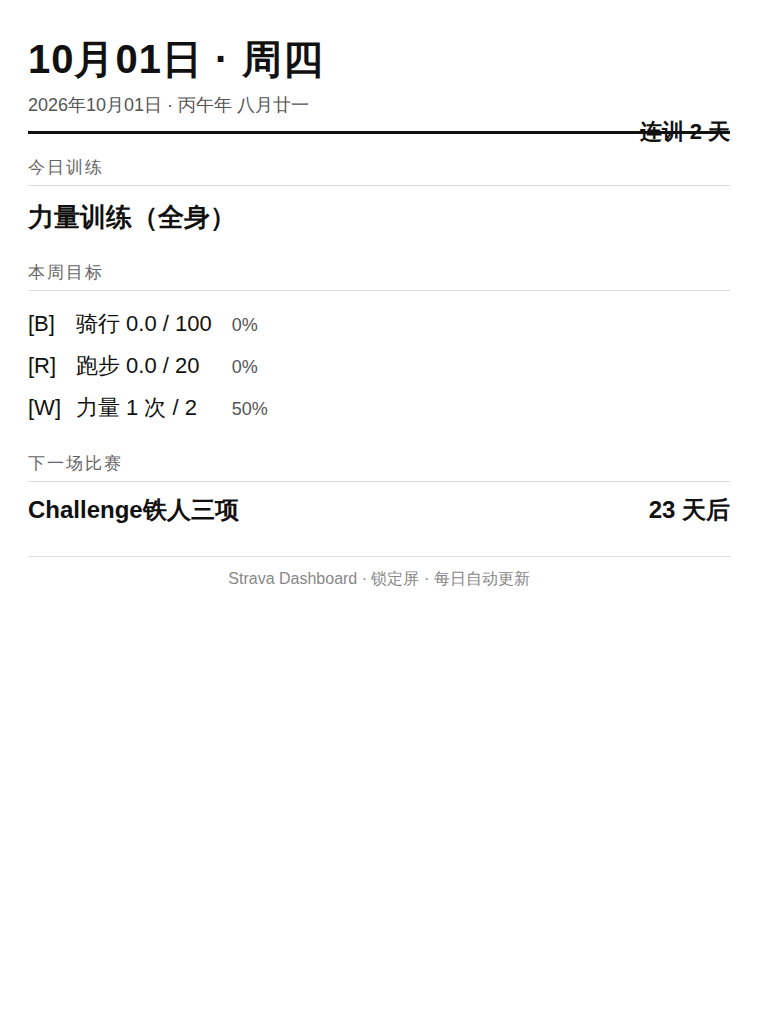
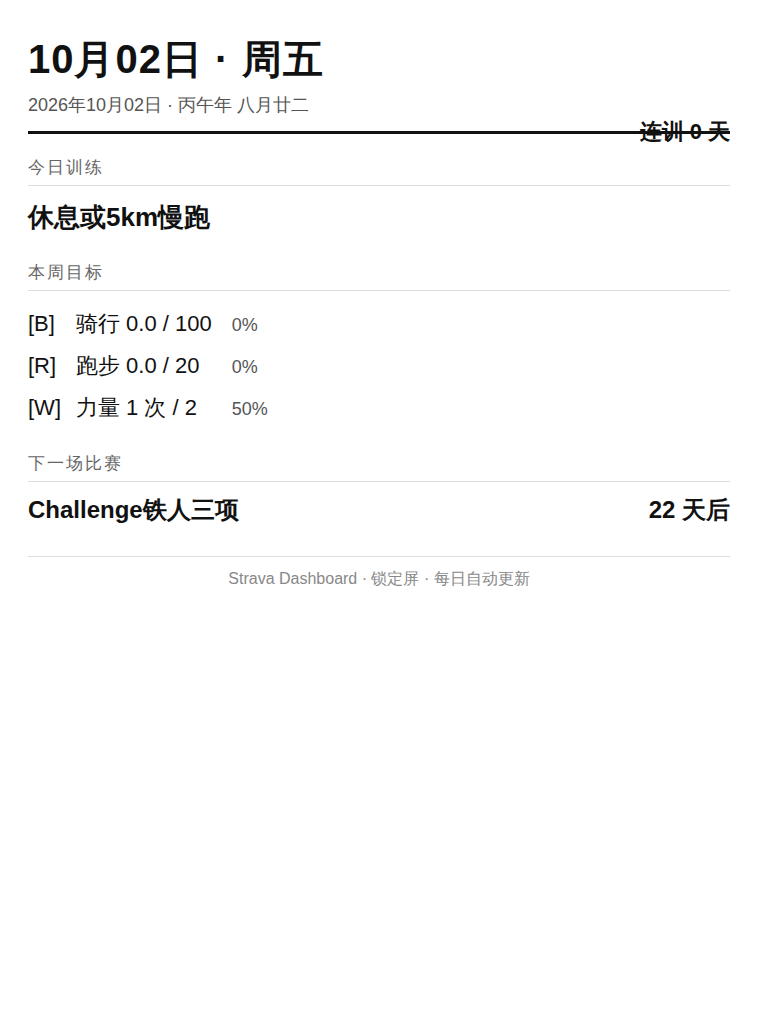
deploy: c8f4226ce821d98ac7ac5ce3594cb846bf59890a

Changed region(s): [[0.0303, 0.1875, 0.3034, 0.25], [0.3641, 0.0312, 0.4248, 0.0938], [0.1821, 0.0312, 0.2124, 0.0938]]

diff --git a/life.html b/life.html
@@ -89,7 +89,7 @@ html, body {
 <table class="header-table">
   <tr>
     <td class="header-left">生活</td>
-    <td class="header-right">2026.10.01</td>
+    <td class="header-right">2026.10.02</td>
   </tr>
 </table>
 
@@ -138,7 +138,7 @@ html, body {
   <table class="weather-table">
     <tr>
       <td class="weather-icon">~</td>
-      <td class="weather-temp">22°C</td>
+      <td class="weather-temp">23°C</td>
       <td class="weather-desc">阴</td>
     </tr>
   </table>
@@ -146,24 +146,17 @@ html, body {
   <table class="forecast-table">
     
     <tr>
-      <td class="forecast-day">周五</td>
-      <td class="forecast-icon">~</td>
-      <td>阴</td>
-      <td class="forecast-range">24/20°C</td>
-    </tr>
-    
-    <tr>
       <td class="forecast-day">周六</td>
       <td class="forecast-icon">.</td>
-      <td>毛雨</td>
-      <td class="forecast-range">26/20°C</td>
+      <td>大毛雨</td>
+      <td class="forecast-range">24/19°C</td>
     </tr>
     
     <tr>
       <td class="forecast-day">周日</td>
       <td class="forecast-icon">.</td>
-      <td>小阵雨</td>
-      <td class="forecast-range">24/20°C</td>
+      <td>大毛雨</td>
+      <td class="forecast-range">23/21°C</td>
     </tr>
     
     <tr>
@@ -184,20 +177,27 @@ html, body {
       <td class="forecast-day">周三</td>
       <td class="forecast-icon">*</td>
       <td>晴</td>
-      <td class="forecast-range">24/13°C</td>
+      <td class="forecast-range">24/12°C</td>
     </tr>
     
     <tr>
       <td class="forecast-day">周四</td>
-      <td class="forecast-icon">*</td>
-      <td>晴</td>
-      <td class="forecast-range">24/16°C</td>
+      <td class="forecast-icon">~</td>
+      <td>多云</td>
+      <td class="forecast-range">25/16°C</td>
+    </tr>
+    
+    <tr>
+      <td class="forecast-day">周五</td>
+      <td class="forecast-icon">~</td>
+      <td>阴</td>
+      <td class="forecast-range">26/18°C</td>
     </tr>
     
   </table>
   
   
-  <div class="rain-alert">! 周六/周日 有雨，注意带伞</div>
+  <div class="rain-alert">! 周日 有雨，注意带伞</div>
   
 </div>
 
@@ -207,10 +207,10 @@ html, body {
   <p class="section-title">📅 今日</p>
   <table class="data-table">
     <tr>
-      <td>2026年10月1日 星期三</td>
+      <td>2026年10月2日 星期四</td>
     </tr>
     <tr>
-      <td>农历丙午年 八月廿一</td>
+      <td>农历丙午年 八月廿二</td>
     </tr>
   </table>
 </div>
@@ -293,10 +293,6 @@ html, body {
     
     
     
-    <tr>
-      <td colspan="2" class="todo-summary">🔥 连续运动 2 天</td>
-    </tr>
-    
   </table>
 </div>
 
@@ -311,7 +307,7 @@ html, body {
       <td class="event-bullet">🎈</td>
       <td class="event-name">老婆生日</td>
       
-      <td class="event-days">364天后</td>
+      <td class="event-days">363天后</td>
       
     </tr>
     
@@ -323,9 +319,9 @@ html, body {
 
 <div class="box">
   <p class="section-title">💬 一言</p>
-  <p class="quote-text">出师未捷身先死，长使英雄泪满襟。</p>
+  <p class="quote-text">徐行古道触婆娑，恰逢妙处难言表。</p>
   
-  <p class="quote-from">—— 蜀相</p>
+  <p class="quote-from">—— 踏莎行·上谷郡</p>
   
 </div>
 

diff --git a/screensaver.html b/screensaver.html
@@ -3,7 +3,7 @@
 <head>
 <meta charset="utf-8">
 <meta name="viewport" content="width=device-width, initial-scale=1">
-<title>训练屏保 · 10.01</title>
+<title>训练屏保 · 10.02</title>
 <style>
   body {
     margin: 0; padding: 32px 28px;
@@ -46,14 +46,14 @@
 </head>
 <body>
   <div class="header">
-    <div class="date">10月01日 · 周四</div>
-    <div class="sub">2026年10月01日 · 丙午年 八月廿一</div>
-    <div class="streak">连训 2 天</div>
+    <div class="date">10月02日 · 周五</div>
+    <div class="sub">2026年10月02日 · 丙午年 八月廿二</div>
+    <div class="streak">连训 0 天</div>
   </div>
 
   <div class="block">
     <div class="block-title">今日训练</div>
-    <div class="today">力量训练（全身）</div>
+    <div class="today">休息或5km慢跑</div>
   </div>
 
   <div class="block">
@@ -63,7 +63,7 @@
 
   <div class="block">
     <div class="block-title">下一场比赛</div>
-    <div class="race"><span class="race-name">Challenge铁人三项</span><span class="race-days">23 天后</span></div>
+    <div class="race"><span class="race-name">Challenge铁人三项</span><span class="race-days">22 天后</span></div>
   </div>
 
   <div class="footer">Strava Dashboard · 锁定屏 · 每日自动更新</div>

diff --git a/index.html b/index.html
@@ -74,7 +74,7 @@ html, body {
 <table class="header-table">
   <tr>
     <td class="header-left">Eric Lin · 运动</td>
-    <td class="header-right">2026.10.01  · 🔥2d</td>
+    <td class="header-right">2026.10.02</td>
   </tr>
 </table>
 
@@ -225,17 +225,10 @@ html, body {
 <div class="ai-plan">
   <div class="ai-plan-title">AI 训练建议</div>
   
-  <div class="ai-today">今日: 间歇跑 6×800m @4:30/km</div>
+  <div class="ai-today">今日: 力量训练（上肢+核心）</div>
   
   
   <table class="ai-weekly">
-    
-    <tr>
-      <td class="day">周四</td>
-      
-      <td>间歇跑 6×800m @4:30/km</td>
-      
-    </tr>
     
     <tr>
       <td class="day">周五</td>
@@ -279,6 +272,13 @@ html, body {
       
     </tr>
     
+    <tr>
+      <td class="day">周四</td>
+      
+      <td>间歇跑 6×800m @4:30/km</td>
+      
+    </tr>
+    
   </table>
   
   
@@ -293,7 +293,7 @@ html, body {
   <p class="section-title">即将到来</p>
   
   <div class="countdown-box">
-    <div class="countdown-days">23</div>
+    <div class="countdown-days">22</div>
     <div class="countdown-label">距 Challenge铁人三项 (10/24)</div>
   </div>
   

diff --git a/work.html b/work.html
@@ -89,7 +89,7 @@ html, body {
 <table class="header-table">
   <tr>
     <td class="header-left">工作</td>
-    <td class="header-right">2026.10.01</td>
+    <td class="header-right">2026.10.02</td>
   </tr>
 </table>
 
